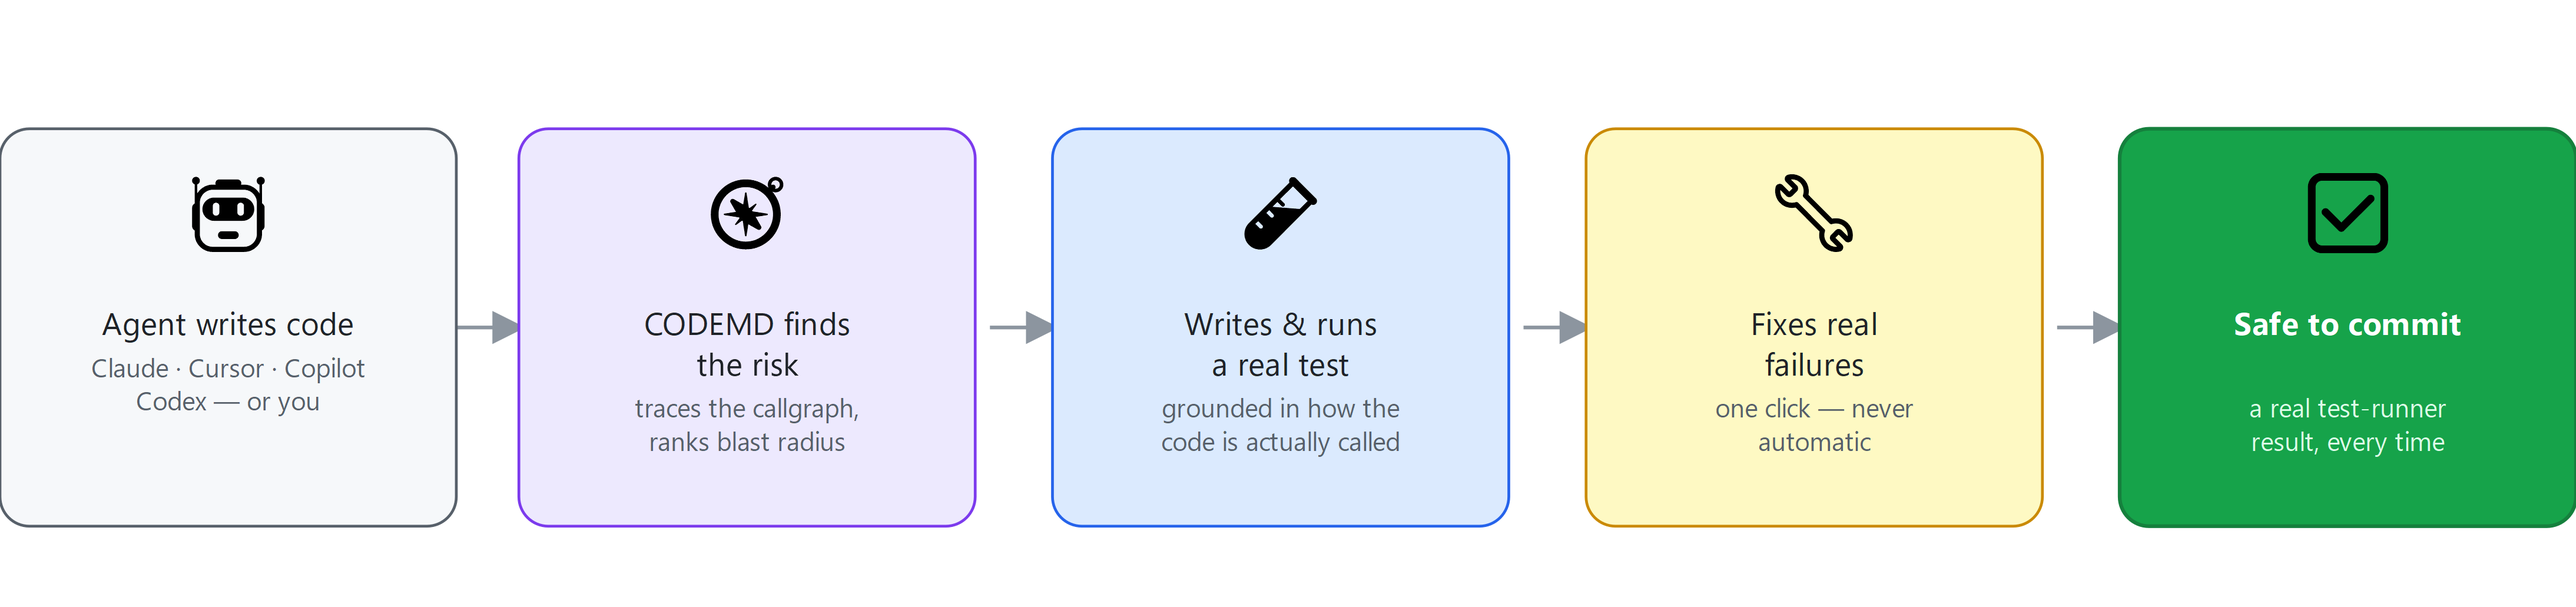
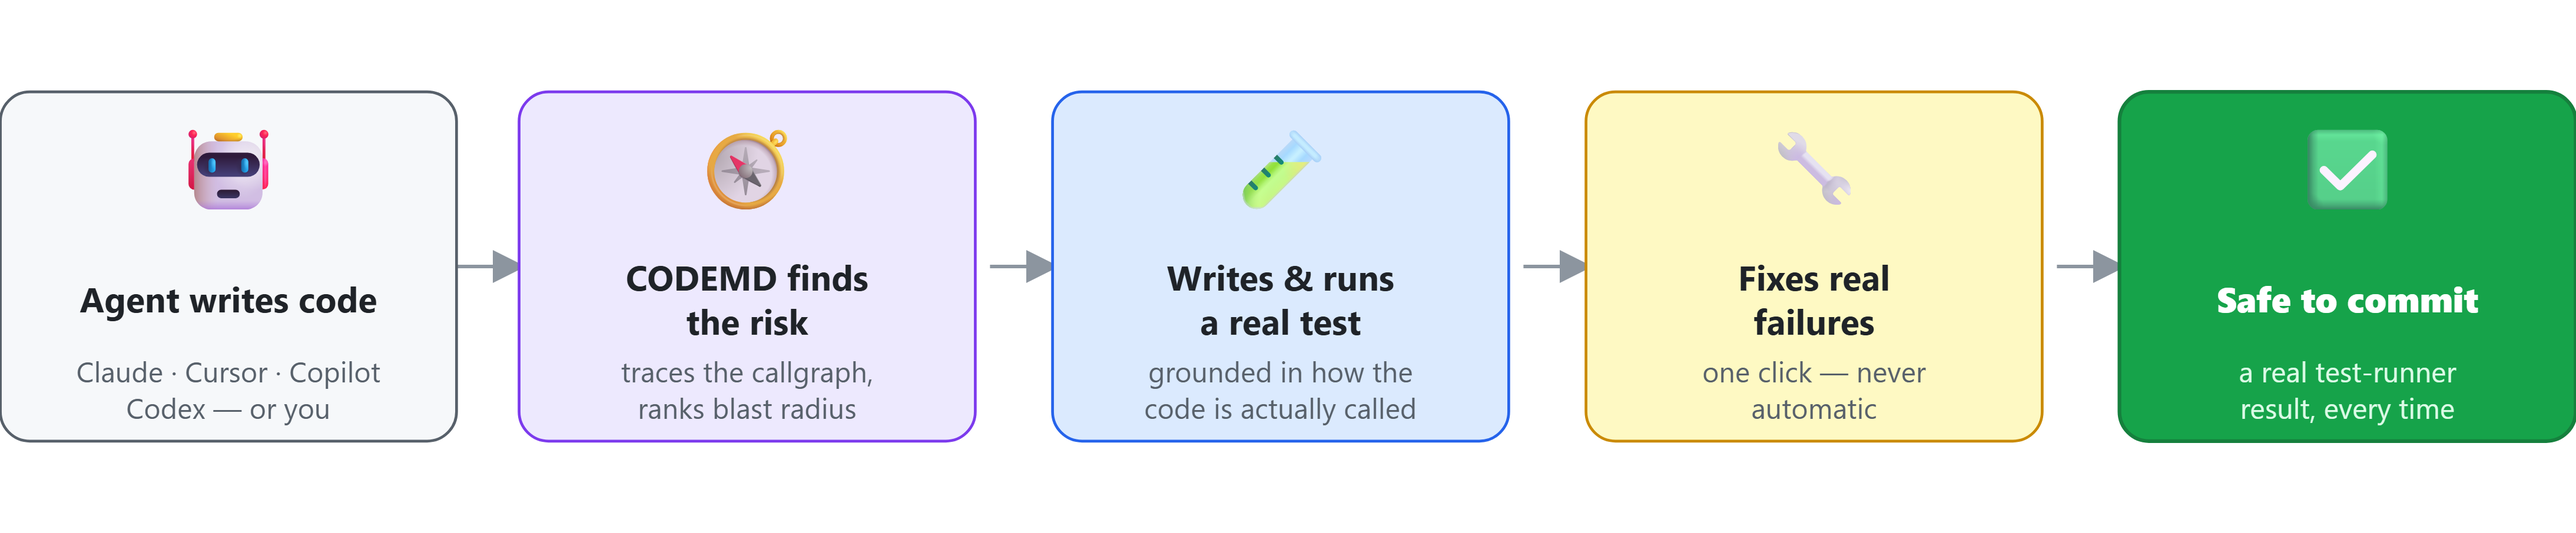
Update README, marketing docs, and add a beta-software license disclaimer
Reworks the README around the new test-loop flowchart and marketing copy,
adds a "provided as-is" warranty disclaimer and liability limitation to
LICENSE.txt covering AI-generated code/tests/fixes and third-party
tool/API usage costs, and refreshes the marketing TODO and video
walkthrough script to match.

diff --git a/video-walkthrough-script.html b/video-walkthrough-script.html
@@ -175,7 +175,7 @@
     <ol>
       <li><a href="#step1">Marketplace page — the hook</a> <span class="imp">why someone should install this</span></li>
       <li><a href="#step2">Install &amp; first look</a> <span class="imp">Activity Bar → panel → auto-analyze</span></li>
-      <li><a href="#step3">Check Uncommitted Edits</a> <span class="imp">the core "aha" moment</span></li>
+      <li><a href="#step3">Check Uncommitted Changes</a> <span class="imp">the core "aha" moment</span></li>
       <li><a href="#step4">Blast Radius Report</a> <span class="imp">risk, ranked</span></li>
       <li><a href="#step5">Check Latest Commits</a> <span class="imp">same check, after the fact</span></li>
       <li><a href="#step6">Search the codebase</a> <span class="imp">find anything, fast</span></li>
@@ -222,19 +222,19 @@
 
   <section class="step" id="step3">
     <div class="step-head">
-      <h2>3 · Check Uncommitted Edits</h2>
+      <h2>3 · Check Uncommitted Changes</h2>
       <span class="meta"><span class="time">~50s</span> · the core feature</span>
     </div>
     <h3 class="label">Action</h3>
     <ul class="action">
       <li>Switch to the editor tab with your pre-staged breaking edit and press <kbd>Ctrl</kbd>+<kbd>S</kbd> to save it on camera.</li>
-      <li>Click <code class="ui">Check Uncommitted Edits</code> in the CODEMD panel.</li>
+      <li>Click <code class="ui">Check Uncommitted Changes</code> in the CODEMD panel.</li>
       <li>Let the change report render — hover/scroll to the risk pill (Critical/High/Medium) and the caller list on the edited symbol.</li>
       <li>Click one of the listed callers to jump straight to that call site in the editor.</li>
     </ul>
     <h3 class="label">Say</h3>
     <blockquote class="say">
-      <p>"Say Claude just changed this function's signature — or an AI agent renamed it — while I was looking away. I hit Check Uncommitted Edits, and CODEMD shows exactly what changed, every place that still calls it, and how risky the edit is. I can click straight through to any caller instead of grepping for it myself."</p>
+      <p>"Say Claude just changed this function's signature — or an AI agent renamed it — while I was looking away. I hit Check Uncommitted Changes, and CODEMD shows exactly what changed, every place that still calls it, and how risky the edit is. I can click straight through to any caller instead of grepping for it myself."</p>
     </blockquote>
     <div class="note">This is the single most important beat in the whole video — give it the most screen time and don't rush the click-through to a caller.</div>
   </section>

diff --git a/README.md b/README.md
@@ -1,19 +1,30 @@
 # CODEMD
 
-**AI writes the code. CODEMD proves the change is safe before you commit.**
+> This is the repo's own README (GitHub-facing, includes the architecture
+> diagram). The VS Code Marketplace listing is built from
+> [MARKETPLACE.md](MARKETPLACE.md) instead (`npm run package`/`npm run publish`
+> pass `--readme-path MARKETPLACE.md`) — same content, minus "Under the
+> hood"'s architecture diagram (too technical for that audience), plus a
+> "How to use CODEMD" section with the user-flow diagram. Keep both in sync
+> when editing product-facing content; the architecture section only needs
+> updating here.
 
-Claude, Copilot, Cursor, and Codex write code fast — but they don't always test what they changed. CODEMD closes that gap automatically, right inside VS Code, before you commit.
+**AI writes the code. CODEMD is the test harness that proves the change is safe before you commit — running automatically, generating only when it has to.**
+
+Claude, Copilot, Cursor, and Codex write code fast — but they don't always test what they changed, and it's easy to forget. CODEMD closes that gap: it traces your callgraph and code index to find exactly which functions a change touches, instantly runs the subset of your existing tests that actually target them, and only asks Claude to write a new one when nothing covers that code yet. Detection and running your own tests are free and automatic; writing new tests is the one part that costs anything, and it never happens without your say-so.
 
 **How it works:**
 
 1. **Claude (or any AI) changes your code.**
-2. **CODEMD traces the change** through your codebase to see everything it affects.
-3. **It checks for a real test** — and writes one, grounded in how the code is actually used, if none exists.
-4. **It runs the test** and confirms the changed lines actually ran — a real pass/fail, not an AI's opinion.
+2. **CODEMD traces the change** through your callgraph to see everything it affects — no guessing, no re-running your whole suite.
+3. **It runs the subset of your existing tests that target that change** — automatically, for free, the moment the change is checked.
+4. **If nothing covers it,** one click has Claude write a test grounded in how the code is actually used, then run it and confirm the changed lines actually executed — a real pass/fail, not an AI's opinion.
 5. **If it fails,** one click has Claude fix the test or the code, then re-verify.
-6. **You get a clear report** — safe to commit, or not — before you check in.
+6. **You get a clear report** — safe to commit, or not — before you check in. Nothing generates or runs Claude in the background; every AI action is one click, and you're always in control.
 
 ![The CODEMD loop: agent writes code, CODEMD finds the risk, writes and runs a real test, fixes real failures, safe to commit](https://github.com/codemd-dev/CODE.md/blob/main/media/test-loop-marketing.png?raw=true)
+
+**What you're about to see:** a real example. A developer commits a code change. CODEMD notices the change touches a function that's used in 4 other places but has no test covering it, so it automatically writes and runs a test for it — right before the commit goes through:
 
 ```
 $ git commit -m "add checkout retry flow"
@@ -25,23 +36,60 @@ CODEMD — writing missing test...
 OK  safe to commit
 ```
 
-> **Pre-release preview:** CODEMD is currently in early testing. Please report install issues, confusing flows, or inaccurate results.
+> **Pre-release preview:** CODEMD is currently in early testing, provided as-is with no warranty — see [Disclaimer](#disclaimer). Please report install issues, confusing flows, or inaccurate results.
 >
 > **Install note:** If the CODEMD icon or panel does not appear right after installing or updating the extension, run **Developer: Reload Window** from the VS Code Command Palette.
 
 ![CODEMD impact graph and change report inside VS Code](https://github.com/codemd-dev/CODE.md/blob/main/uncommitted-edits.jpg?raw=true)
 
-## The 5 kinds of tests CODEMD writes — and only these 5
+## How to use CODEMD
 
-CODEMD doesn't generate tests freely. Every run picks exactly one of the 5 kinds below, based on what it finds in your callgraph — never open-ended, never invented:
+The full loop, from an AI agent's change to a verified commit:
 
-1. **Regression Test** — free, no AI involved. A real caller's actual arguments are replayed exactly as they're passed in your code. Instant and fully deterministic.
-2. **Call-Path Test** — when a real caller's arguments aren't plain literals (a variable, a computed value), or when two changed functions call each other directly, Claude reads the real call and writes the test by hand around it — still grounded in an actual call site, just not mechanically replayable.
-3. **New-Function Test** — for a function you just added. CODEMD finds its first real caller in the callgraph and asks Claude to write a test around that actual usage.
-4. **Contract Test** — when a signature change breaks existing callers, CODEMD writes one test per broken call site, each showing the corrected call against the new signature.
-5. **Broader-Coverage Test** — for a function with several real callers, one test per genuinely different way it's called, not just the first one found.
+![CODEMD flow: an AI agent writes code, CODEMD tracks the uncommitted change and ranks its risk, checks for existing test coverage, generates a test when nothing covers it, runs it for a real pass/fail, and offers a one-click fix loop until it passes](https://github.com/codemd-dev/CODE.md/blob/main/media/test-loop-flowchart.png?raw=true)
 
-Whichever kind it picks, CODEMD only writes it when you click **Check tests** — nothing runs in the background — and it then runs the test and reports a real pass/fail.
+## Two different things CODEMD does — and only one of them costs anything
+
+**Running tests that already exist is free and automatic.** CODEMD looks for a test already covering the function your diff touched and actually executes it — a real pass/fail, not an AI's opinion — for close to zero cost:
+
+| Language | Runs with no click, the moment a change is checked | Manual "Check tests" → Run | How it actually runs |
+| --- | --- | --- | --- |
+| **Python** | ✅ | ✅ | Directly — your own `pytest` + `coverage.py` |
+| **Go** | — | ✅ | Directly — `go test` + its coverage profile |
+| **Rust** | — | ✅ | Directly — `cargo test` + `cargo-llvm-cov` |
+| **Java** | — | ✅ | Directly — Maven, via the JUnit Platform Console Launcher |
+| **Kotlin** | — | ✅ | Directly — Maven, same JUnit Platform Console Launcher as Java |
+| **C#** | — | ✅ | Directly — a throwaway xUnit project referencing your own `.csproj` |
+| **JS/TS, and others** | — | ✅ | Claude reads your project files to find the right command (`npm test`, ...), then CODEMD runs that command itself |
+
+Only that last row spends any AI usage at all, and only to *find the command* — never to grade the result. The pass/fail always comes from actually executing the test.
+
+**Writing a brand-new test is optional, and the one place Claude actually writes code.** This is the gap most AI-assisted workflows have today: an agent changes a function, nothing covers it, and the change ships on faith. CODEMD can instead ground a real test in how that function is *actually called* elsewhere in your codebase — from your callgraph, not a guess — so a commit gets at least one real regression check instead of "commit and hope":
+
+| Test | What CODEMD does | Bugs it targets | Python | JS/TS, Java, C#, Go, Rust, Kotlin |
+| --- | --- | --- | --- | --- |
+| **Regression Test** | Free, no AI involved. Replays a real caller's actual arguments exactly as they're passed in your code — instant and fully deterministic. | Exact regressions on a path that's already live in your app. | ✅ | — |
+| **Call-Path Test** | Claude reads a real call site and writes the test by hand around it — grounded in an actual call, just not mechanically replayable. | Integration bugs a real caller would hit — not just isolated unit bugs. | ✅ | ✅ |
+| **Call-Chain Test** | For two functions that changed *together* in the same diff and call each other directly — one test exercising both as a real chain. | Breaks in how two changed functions interact, that neither one's own test would catch. | ✅ | ✅ |
+| **New-Function Test** | For a function you just added. CODEMD finds its first real caller in the callgraph and asks Claude to write a test around that actual usage. | Missing coverage on brand-new code, before it ships. | ✅ | ✅ |
+| **Broader-Coverage Test** | For a function with several real callers, one test per genuinely different way it's called, not just the first one found. | Edge cases that work for the common caller but break the others. | ✅ | ✅ |
+| **Contract Test** | When a signature change breaks existing callers, CODEMD writes one test per broken call site, each showing the corrected call against the new signature. | Breaking API changes — renamed, reordered, or removed parameters. | ✅ | — |
+
+Whichever kind it picks, CODEMD only writes it when you click **Check tests** — nothing generates in the background — and it then runs the test itself and reports a real pass/fail.
+
+### How effective is this, honestly?
+
+We'd rather tell you what's actually known than make up a number.
+
+**LLM-written tests are a real, actively-researched technique — with genuinely mixed results industry-wide.** Independent academic evaluations of LLM-generated unit tests report a wide range of real-bug-detection outcomes depending on the approach and benchmark — from studies where most generated tests found zero or one bug, to others reporting 68–81% detection when combining methods ([arXiv:2404.10304](https://arxiv.org/pdf/2404.10304), [arXiv:2502.09801](https://arxiv.org/abs/2502.09801)). One large-scale study also found that a majority of LLM-generated tests across several models never even compiled, which is itself the dominant cause of missed bugs ([arXiv:2508.00408](https://arxiv.org/pdf/2508.00408)) — a large part of why CODEMD only ever counts a test as "safe to commit" after it *actually runs*, not after Claude claims it wrote something reasonable.
+
+**Grounding generation in a real call site — CODEMD's core idea — has real prior art.** [TestPilot](https://githubnext.com/projects/testpilot/) (GitHub Next / Microsoft Research) generates tests from real usage examples mined from a codebase rather than an isolated function signature, and reports 60–80% statement coverage on popular npm packages — the closest published relative of CODEMD's Call-Path approach, though that's a coverage number, not an audited bug-catch rate. Separately, using call graphs to target *which* code a change actually puts at risk is an established, well-studied technique in regression-test-selection research ([arXiv:1812.06286](https://arxiv.org/pdf/1812.06286)), which is what CODEMD's impact tracing is built on.
+
+**Commercial tools in this space self-report meaningfully higher numbers** — e.g. Qodo has publicly claimed detecting 42–48% of real-world runtime bugs across languages — but those are vendor-reported figures, not independently audited, and CODEMD makes no equivalent claim about itself.
+
+**CODEMD's own numbers, honestly: we don't have enough data yet to publish one, so we're not going to invent one.** As of this release, every genuine test failure CODEMD's generators produce — a test that actually ran against your real code and a real assertion failed, excluding environment/setup issues that say nothing about your code — gets logged to `.codemd/defects/` in your own repo. That's deliberate: instead of asking you to trust a marketing number, you can watch this fill up (or not) in your own codebase and judge for yourself.
+
+Sources: [LLM-Powered Test Case Generation for Detecting Bugs in Plausible Programs](https://arxiv.org/pdf/2404.10304) · [Unit Testing Past vs. Present: Examining LLMs' Impact on Defect Detection](https://arxiv.org/abs/2502.09801) · [Benchmarking LLMs for Unit Test Generation from Real-World Functions](https://arxiv.org/pdf/2508.00408) · [TestPilot (GitHub Next)](https://githubnext.com/projects/testpilot/) · [A Large-Scale Study of Call Graph-based Impact Prediction using Mutation Testing](https://arxiv.org/pdf/1812.06286)
 
 ## What else shows up in your impact report
 
@@ -60,26 +108,35 @@ These aren't actions CODEMD takes — they're risks it flags *in the report*, fo
 - **Read-only mode** — set `codemdGraphs.readOnlyMode` to `true` to stop CODEMD from ever invoking Claude to write a test or fix a failure. It still traces impact and runs the free, mechanical Regression Test and any tests that already exist — you just won't get AI-generated tests or the Fix button until you turn it back off.
 - **A usage cap on every AI action** — `codemdGraphs.maxCostPerActionUsd` (default `$1`) caps how much API-equivalent usage any single Claude action (writing a test, fixing a failure, or finding a run command) is allowed to use. On a Claude Pro/Max subscription this isn't a real charge — nothing is billed per call — but the cap still protects your rate-limited 5-hour/7-day quota from one action eating an outsized chunk of it. Claude enforces this itself and stops the moment it's crossed — raise it in Settings if you want to allow heavier actions.
 - **An activity report of everything CODEMD did** — every test run, every test it generated, and every fix it attempted is logged to `.codemd/reports/activity.md`, with how long each took and how much usage it took. CODEMD tells you the first time it writes to this file, with a button to open it.
-
-## Under the hood
-
-Everything runs locally: a bundled Python analyzer builds and maintains the callgraph, your own test runners (`pytest`, `go test`, `cargo test`, ...) produce every pass/fail, and the local Claude Code CLI is invoked only for test generation and the Fix button — never automatically.
-
-![CODEMD architecture: the webview panel and extension host in VS Code, the local Python analyzer, test runners, and Claude Code CLI they spawn, what gets persisted in .codemd/ and VS Code's global storage, and the optional MCP server exposing the same index to Claude Code, Codex, and Cursor](https://github.com/codemd-dev/CODE.md/blob/main/media/test-architecture.png?raw=true)
+- **A defects log you can actually audit** — whenever a CODEMD-generated test genuinely runs against your real code and a real assertion fails (not an environment/setup issue), it's recorded to `.codemd/defects/` as its own file. This is how you see, in your own repo, whether this is finding anything real — not a claim we're asking you to take on faith.
 
 ## Getting Started
 
 1. Install CODEMD.
 2. Click the CODEMD icon in the Activity Bar.
 3. Run **Generate CODEMD** to analyze the current workspace.
-4. Click **Check Uncommitted Edits**, then **Check tests** on any flagged function — before your next commit.
+4. Click **Check Uncommitted Changes**, then **Check tests** on any flagged function — before your next commit.
 
 ## Requirements
 
 - Python 3. CODEMD manages an isolated virtual environment automatically. You can also set `codemdGraphs.pythonPath` to use your own interpreter.
 - Running Python tests directly needs `pytest` (and, for coverage confirmation, `coverage`) installed in your project's own environment — CODEMD detects and uses it automatically if present.
 - Running Go tests directly needs the Go toolchain on `PATH`. Running Rust tests directly needs `cargo`, plus `cargo-llvm-cov` for coverage confirmation (falls back to plain pass/fail without it).
+- Running Java or Kotlin tests directly needs Maven and a JDK on `PATH` (Gradle projects aren't supported for direct runs yet — open the file and run it from your IDE/Gradle instead). Kotlin also needs the Kotlin compiler (`kotlinc`) on `PATH`, separate from the JDK.
+- Running C# tests directly needs the .NET SDK (`dotnet`) on `PATH`.
+- Running JS/TS tests needs Node.js and your project's own package manager on `PATH` — Claude reads your `package.json` to find the exact command (Jest, Vitest, Mocha, ...) rather than assuming one.
 - The Claude-assisted paths (test generation, non-direct-language test runs, and the Fix button) need the Claude Code CLI installed and signed in.
+
+## Disclaimer
+
+CODEMD is beta / pre-release software, provided **"as is," with no warranty of any kind** — express or implied, including merchantability, fitness for a particular purpose, or accuracy. Use it at your own risk, and don't treat it as your only safety check before shipping.
+
+- **AI-generated content can be wrong.** Tests, fixes, and impact analysis that CODEMD or Claude produce may be incomplete, inaccurate, or based on a misreading of your code. Review generated tests and fixes before trusting or committing them — CODEMD's "safe to commit" report is a signal, not a guarantee.
+- **CODEMD executes real code on your machine** — your own test suite, and any test it generates — via `pytest`, `go test`, `cargo test`, `mvn`/`kotlinc`, `dotnet`, or your project's own JS/TS test command. If you have any doubt what a generated test file contains, read it before running it.
+- **Claude Code CLI usage may incur real cost.** Test generation and the Fix button invoke your local Claude Code CLI, which consumes your Anthropic API usage or subscription quota. CODEMD is not responsible for usage charges or rate-limit consumption resulting from its use.
+- **No liability.** To the maximum extent permitted by law, CodeVal and CODEMD's contributors accept no liability for damages — direct, indirect, incidental, or consequential — arising from use of this extension, including but not limited to data loss, incorrect test results, missed bugs, or third-party AI usage costs.
+
+Full legal terms: [LICENSE.txt](LICENSE.txt).
 
 ## Learn More
 

diff --git a/MarketingTODO.MD b/MarketingTODO.MD
@@ -29,10 +29,10 @@ The core problem, as you said, is awareness + positioning — not product qualit
 - [ ] Expand `categories` beyond `["Other"]` — add whichever of `Linters`, `Testing`, `Visualization`, `Machine Learning` genuinely fit; this is what browse/filter surfaces use.
 - [ ] Add a `galleryBanner` (color + theme) to package.json for a branded Marketplace header instead of the default blank one.
 - [ ] Tighten the Marketplace short `description` field to name Claude/Cursor/Codex explicitly — those are searchable terms your buyers actually type.
-- [ ] Add an in-extension, non-annoying ratings nudge (e.g. after the 3rd successful "Check Uncommitted Edits" run, a one-time prompt) — 0 reviews today, and the first few reviews matter disproportionately for conversion.
+- [ ] Add an in-extension, non-annoying ratings nudge (e.g. after the 3rd successful "Check Uncommitted Changes" run, a one-time prompt) — 0 reviews today, and the first few reviews matter disproportionately for conversion.
 
 ### 1b. GitHub README / repo
-- [ ] Record one 20-30s GIF or short screen capture of the real flow: open a repo → **Generate CODEMD** → **Check Uncommitted Edits** → blast radius report → click into a caller. This is the single highest-leverage asset — reuse it in the README hero, Marketplace, Reddit/HN/PH posts, and LinkedIn.
+- [ ] Record one 20-30s GIF or short screen capture of the real flow: open a repo → **Generate CODEMD** → **Check Uncommitted Changes** → blast radius report → click into a caller. This is the single highest-leverage asset — reuse it in the README hero, Marketplace, Reddit/HN/PH posts, and LinkedIn.
 - [ ] Move that GIF above the fold in [README.md](README.md) (currently the two JPGs are static and appear after several paragraphs of text).
 - [ ] Add badges to the README top: Marketplace version/install count, license, "Works with Claude Code / Cursor / Codex."
 - [ ] Add a short "Why CODEMD" section that contrasts it with (a) grep/manual review and (b) generic AI repo-summarizer tools — the differentiator is local-first + MCP-native + pre-commit risk scoring, not just "a map file."
